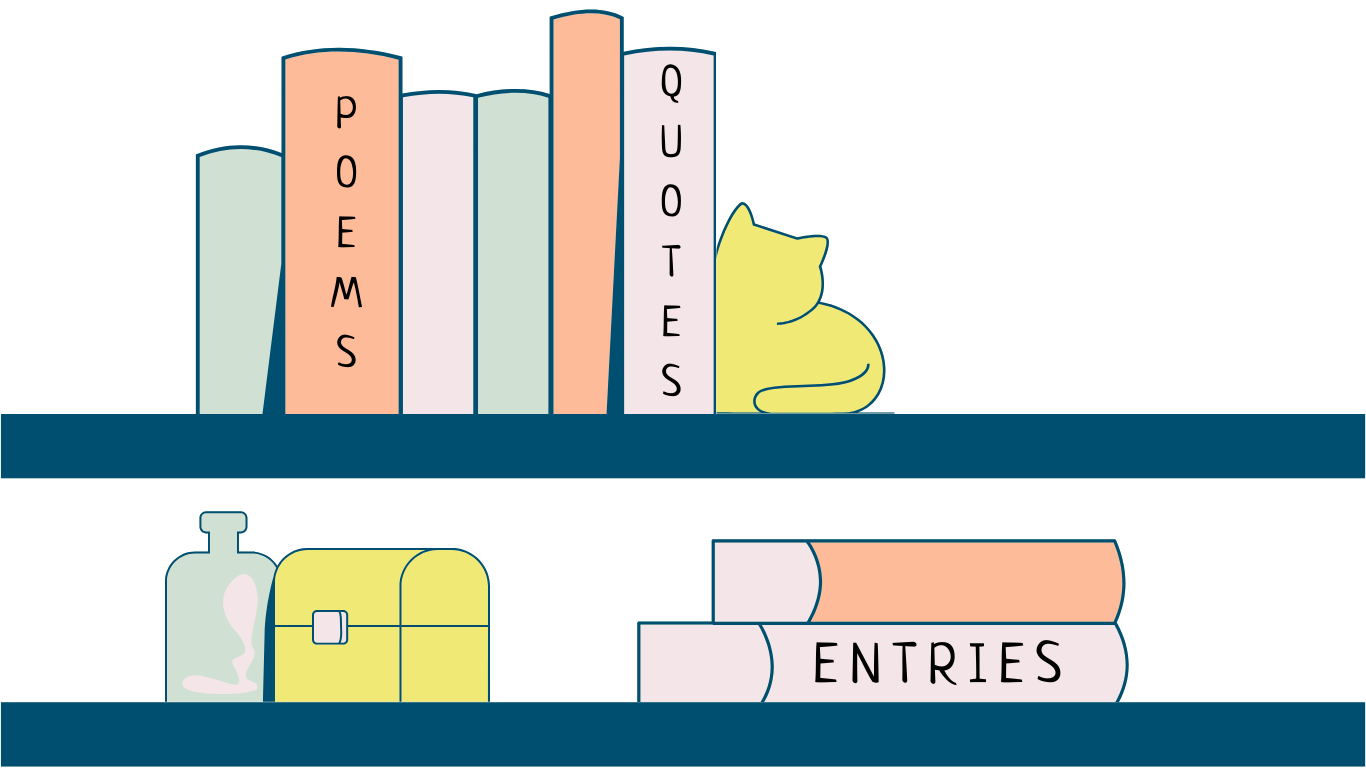
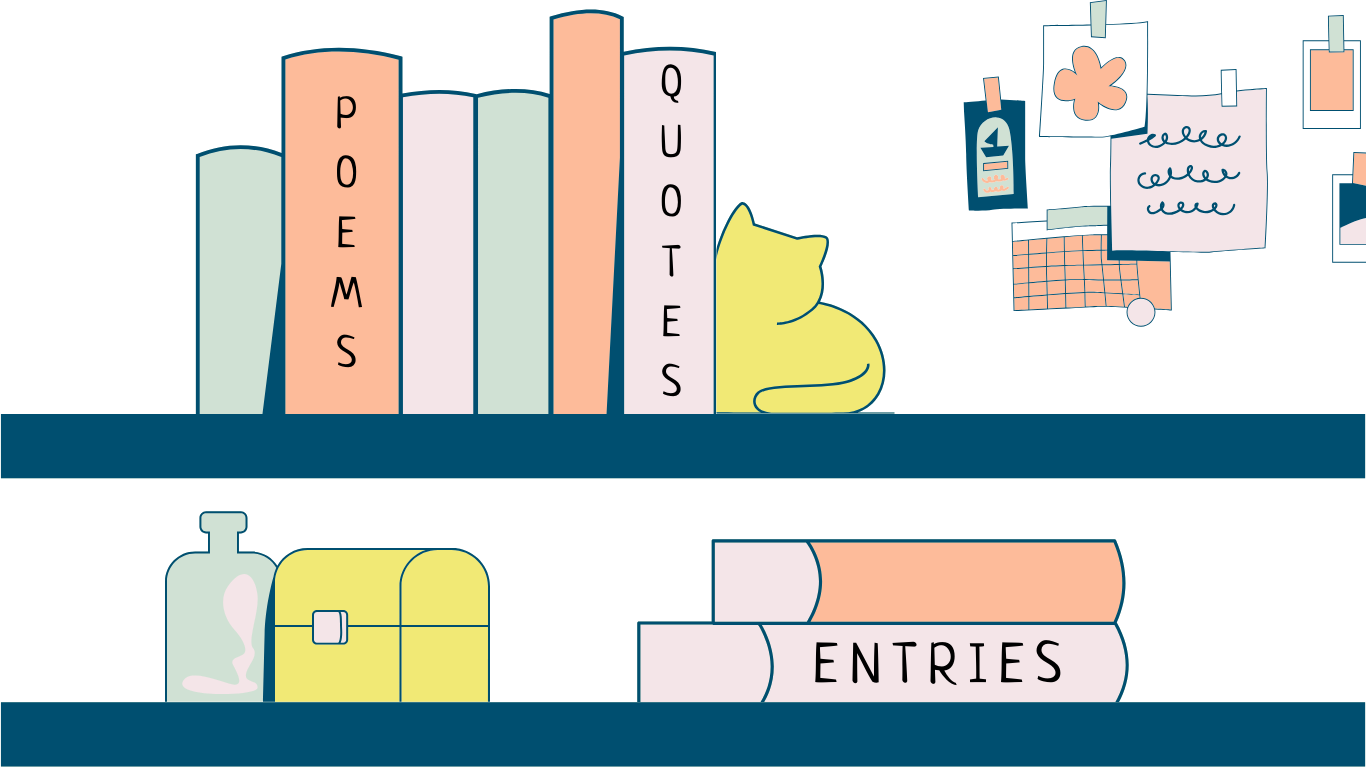
added entry button

Changed region(s): [[0.7072, 0.0, 1.0, 0.4375]]

diff --git a/website/templates/bookshelf.html b/website/templates/bookshelf.html
@@ -10,6 +10,7 @@
     <!-- Hoverable and Clickable Sections -->
     <button class="custom-button poem" onClick="openPopup('{{ url_for('views.popup_poem') }}')">Poem</button>
     <button class="custom-button quote" onClick="openPopup('{{ url_for('views.popup_quote') }}')">Quote</button>
+    <button class="custom-button entry" onClick="openPopup('{{ url_for('views.popup_entry') }}')">Entries</button>
   </div>
 
   <!-- Modal for Popups -->
@@ -66,7 +67,7 @@
 
   .image-container {
     position: relative;
-    width: 80%; /* Adjustable for responsiveness */
+    width: 100%; /* Adjustable for responsiveness */
   }
 
   .centered-image {
@@ -108,32 +109,57 @@
     height: 40%; /* Proportional height */
   }
 
+  .entry {
+    top: 80%;
+    left: 45%;
+    width: 40%; /* Proportional width */
+    height: 10%; /* Proportional height */
+  }
+
   /* Style for the popup modal */
   #popup {
     position: fixed;
     top: 50%;
     left: 50%;
     transform: translate(-50%, -50%);
-    background-color: white;
-    color: black;
+    background-color: transparent; /* Transparent background */
     padding: 20px;
     border-radius: 10px;
-    box-shadow: 0 4px 8px rgba(0, 0, 0, 0.2);
     z-index: 1000;
-    max-width: 500px;
-    width: 80%;
-    max-height: 80vh;
-    overflow-y: auto;
+    max-width: 800px; /* Increased width for large content */
+    width: 90%; /* Adjust width to ensure enough space */
+    height: auto; /* Let the height adjust based on the content */
+    max-height: none; /* Remove any height restriction */
+    overflow: hidden; /* Remove scrolling */
   }
 
-  #popup-overlay {
-    position: fixed;
-    top: 0;
-    left: 0;
-    width: 100%;
-    height: 100%;
-    background: rgba(0, 0, 0, 0.5);
-    z-index: 999;
+ /* Blurred background effect for the overlay */
+#popup-overlay {
+  position: fixed;
+  top: 0;
+  left: 0;
+  width: 100%;
+  height: 100%;
+  background: rgba(0, 0, 0, 0.4); /* Semi-transparent overlay */
+  backdrop-filter: blur(3px); /* Add blur to the background */
+  z-index: 999;
+}
+
+  /* Style for the "X" close button */
+  .close-popup {
+    position: absolute;
+    top: 10px;
+    right: 10px;
+    background: none;
+    border: none;
+    font-size: 24px; /* Make the "X" larger */
+    font-weight: bold; /* Ensure it stands out */
+    color: #333; /* Set a neutral color */
+    cursor: pointer; /* Change the cursor to indicate it's clickable */
+  }
+
+  .close-popup:hover {
+    color: rgb(231, 144, 144); /* Optional: Change color on hover */
   }
 </style>
 {% endblock %}

diff --git a/website/templates/popup_poem.html b/website/templates/popup_poem.html
@@ -1,2 +1,3 @@
-<h2>Poem of the Day</h2>
+<h2>Generated Poem</h2>
 <p>{{ poem }}</p>
+

diff --git a/website/templates/popup_entry.html b/website/templates/popup_entry.html
@@ -1,0 +1,3 @@
+<h2>Entry</h2>
+<p>{{ entry }}</p>
+

diff --git a/website/views.py b/website/views.py
@@ -77,6 +77,27 @@ def popup_quote():
     except Exception as e:
         return render_template('popup_quote.html', quote=f"Error: {e}")
 
+@views.route('/popup_entry', methods=['GET'])
+@login_required
+def popup_entry():
+    try:
+        # Fetch all notes for the current user, sorted by date in descending order
+        entries = (
+            Note.query.filter_by(user_id=current_user.id)
+            .order_by(Note.id.desc())
+            .all()
+        )
+
+        # Prepare the entries in the format "date : entry"
+        formatted_entries = [
+            f"{note.date_created.strftime('%Y-%m-%d %H:%M:%S')} : {note.data}"
+            for note in entries
+        ]
+
+        return render_template('popup_entry.html', entries=formatted_entries)
+    except Exception as e:
+        return render_template('popup_entry.html', entries=[], error=f"Error: {e}")
+
 
 @views.route('/bookshelf', methods=['GET'])
 @login_required
